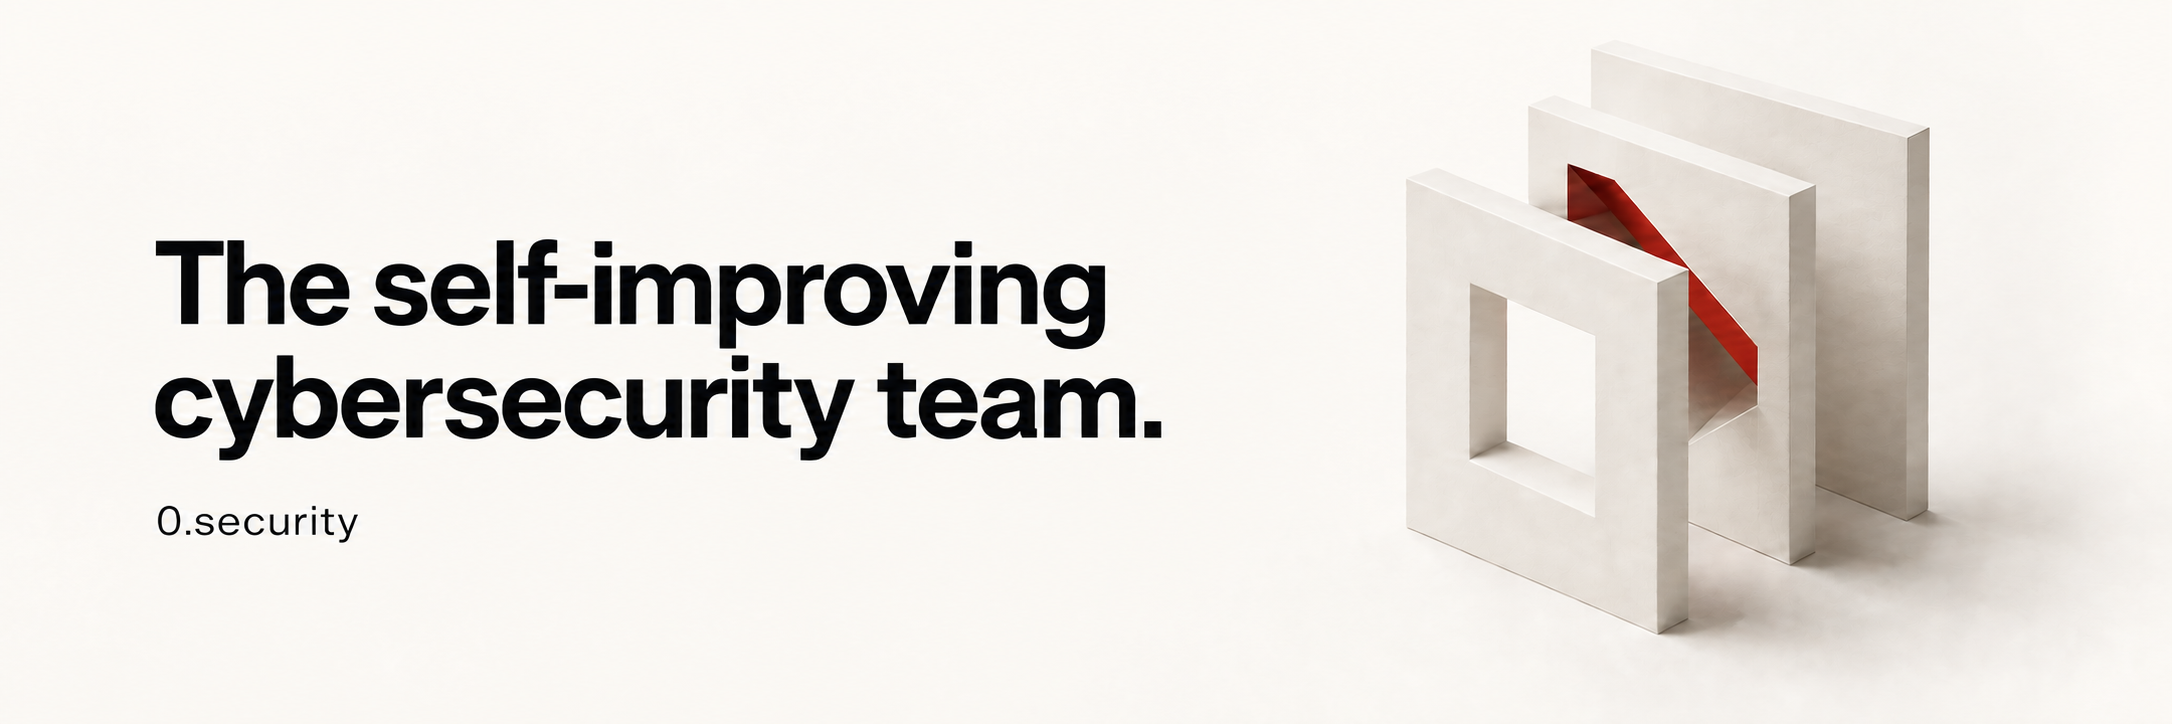
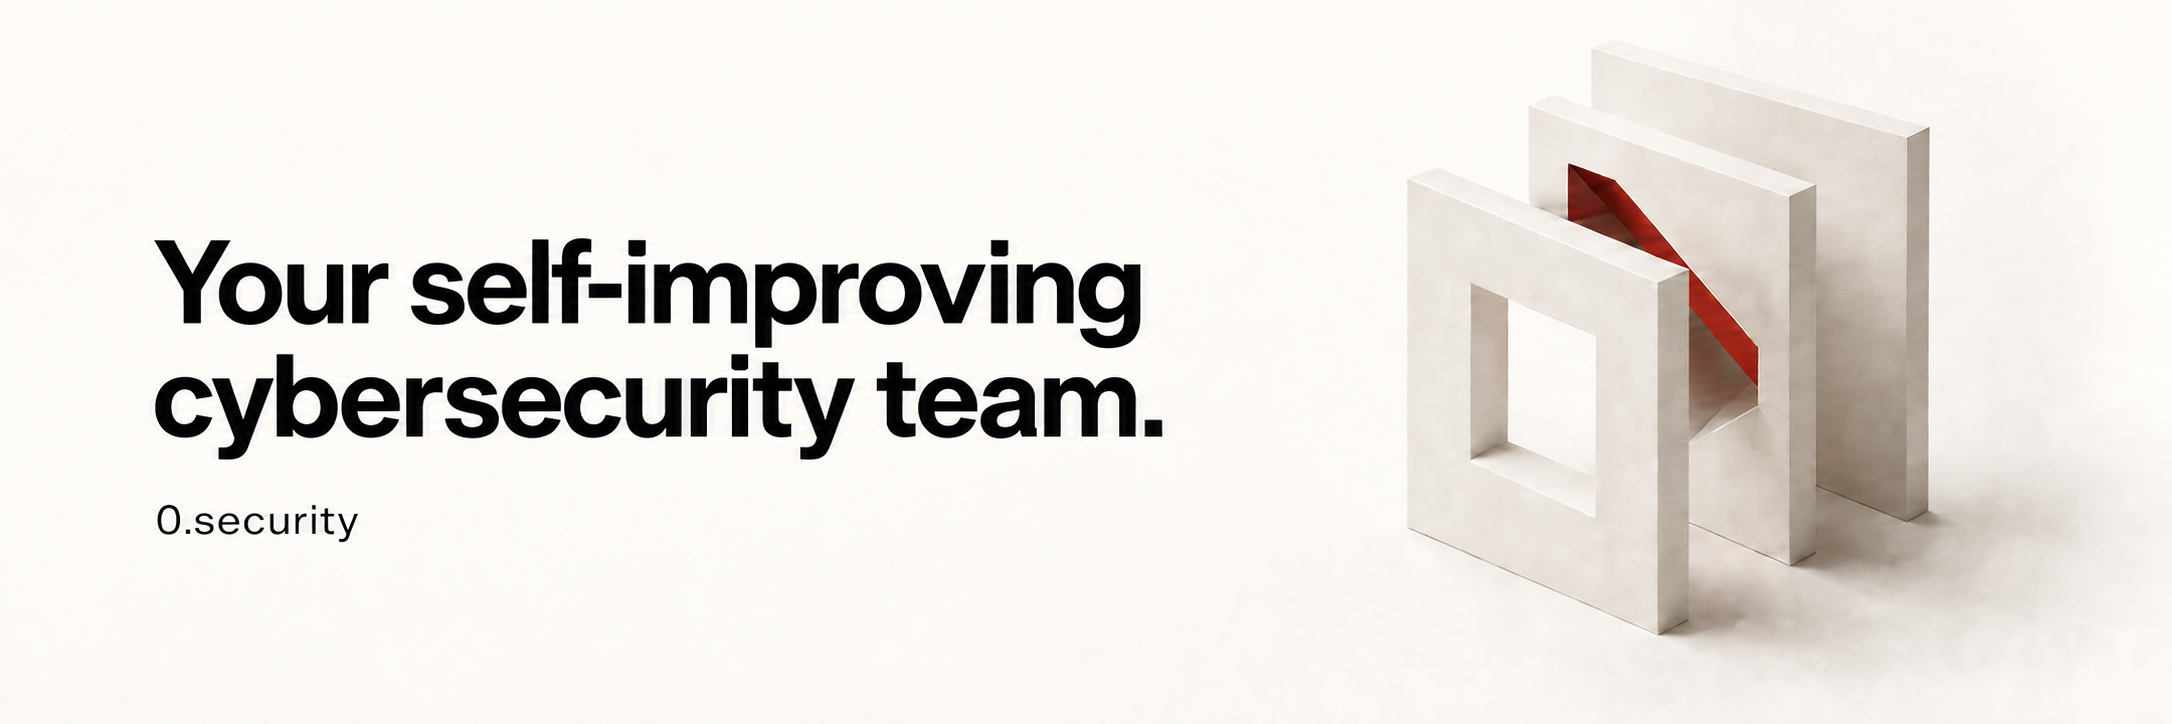
fix(readme): personalize headline and remove repeated tagline

diff --git a/README.md b/README.md
@@ -1,6 +1,6 @@
 <p align="center">
   <a href="https://0.security/harness/">
-    <img src="assets/readme-cover.png" alt="The self-improving cybersecurity team. An ivory paper sculpture with a crimson edge." width="100%">
+    <img src="assets/readme-cover.png" alt="Your self-improving cybersecurity team. An ivory paper sculpture with a crimson edge." width="100%">
   </a>
 </p>
 
@@ -12,7 +12,7 @@
 </p>
 
 <p align="center">
-  The self-improving cybersecurity team.
+  Open-source and extensible, with your choice of models.
 </p>
 
 <p align="center">
